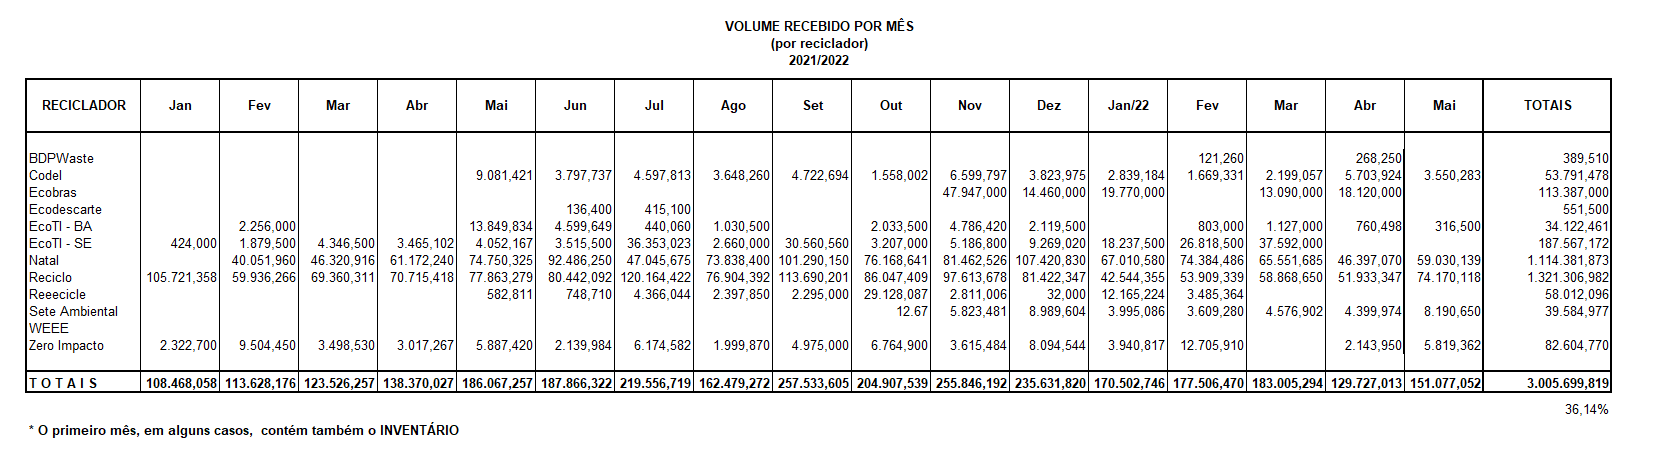
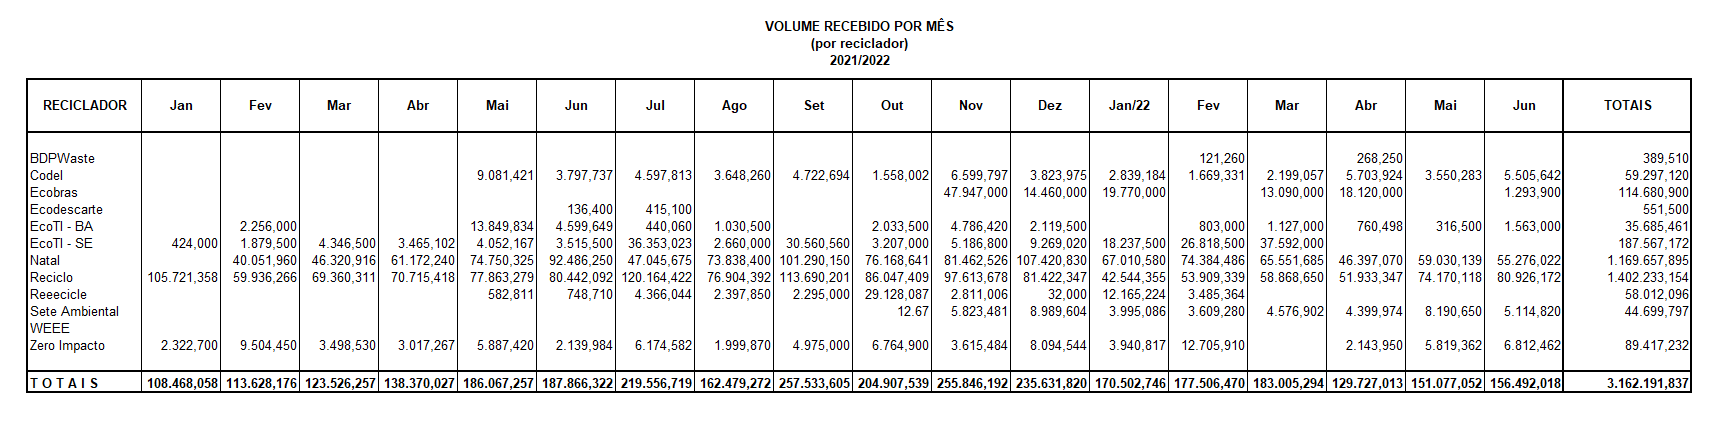
Atualização Jun/22

Changed region(s): [[0.0, 0.0308, 0.9867, 0.955]]

diff --git a/frontend/src/components/DataTable/index.tsx b/frontend/src/components/DataTable/index.tsx
@@ -9,7 +9,7 @@ const DataTable = () => {
                         <th>OT's</th>
                         <th>OS's</th>
                         <th>OD's</th>
-                        <th>Estoque em 31/05/22 (Kg)</th>
+                        <th>Estoque em 30/06/22 (Kg)</th>
                         <th>Peso Reciclado (Kg)</th>
                         
                     </tr>
@@ -23,18 +23,18 @@ const DataTable = () => {
                     </tr>
                     <tr>
                         <td>Codel</td>
-                        <td>86</td>
-                        <td>184</td>
-                        <td>450</td>
-                        <td>12.536,676</td>
-                        <td>39.233,374</td>
+                        <td>105</td>
+                        <td>215</td>
+                        <td>481</td>
+                        <td>16.038,102</td>
+                        <td>40.727,639</td>
                     </tr>
                     <tr>
                         <td>Ecobras</td>
                         <td>0</td>
-                        <td>13</td>
+                        <td>15</td>
                         <td>20</td>
-                        <td>88.160,610</td>
+                        <td>108.994,510</td>
                         <td>35.211,400</td>
                     </tr>
                     <tr>
@@ -48,34 +48,34 @@ const DataTable = () => {
                     <tr>
                         <td>EcoTI - BA</td>
                         <td>24</td>
-                        <td>49</td>
-                        <td>39</td>
-                        <td>16.954,135</td>
-                        <td>8.260,090</td>
+                        <td>55</td>
+                        <td>47</td>
+                        <td>17.550,360</td>
+                        <td>8.521,360</td>
                     </tr>
                     <tr>
                         <td>EcoTI - SE</td>
                         <td>14</td>
                         <td>158</td>
                         <td>52</td>
-                        <td>135.928,093</td>
+                        <td>97.936,123</td>
                         <td>25.500,530</td>
                     </tr>
                     <tr>
                         <td>Natal</td>
-                        <td>259</td>
-                        <td>1.929</td>
-                        <td>315</td>
-                        <td>97.589,190</td>
-                        <td>971.406,952</td>
+                        <td>293</td>
+                        <td>2.054</td>
+                        <td>343</td>
+                        <td>76.863,619</td>
+                        <td>1.039.170,760</td>
                     </tr>
                     <tr>
                         <td>Reciclo</td>
-                        <td>567</td>
-                        <td>1.387</td>
-                        <td>982</td>
-                        <td>59.758,842</td>
-                        <td>1.385.298,239</td>
+                        <td>627</td>
+                        <td>1.495</td>
+                        <td>1.044</td>
+                        <td>57.111,082</td>
+                        <td>1.470.307,088</td>
                     </tr>
                     <tr>
                         <td>Reeecicle</td>
@@ -87,10 +87,10 @@ const DataTable = () => {
                     </tr>
                     <tr>
                         <td>Sete Ambiental</td>
-                        <td>843</td>
-                        <td>620</td>
+                        <td>888</td>
+                        <td>642</td>
                         <td>17</td>
-                        <td>35.630,687</td>
+                        <td>39.698,199</td>
                         <td>609,600</td>
                     </tr>
                     <tr>
@@ -104,9 +104,9 @@ const DataTable = () => {
                     <tr>
                         <td>Zero Impacto</td>
                         <td>85</td>
-                        <td>433</td>
-                        <td>32</td>
-                        <td>36.095,259</td>
+                        <td>451</td>
+                        <td>56</td>
+                        <td>58.834,335</td>
                         <td>29.497,159</td>
                     </tr>
                     <tr>
@@ -119,11 +119,11 @@ const DataTable = () => {
                     </tr>
                     <tr>
                         <th>T O T A I S</th>
-                        <th>1.964</th>
-                        <th>4.997</th>
-                        <th>1.979</th>
-                        <th>528.557,956</th>
-                        <th>2.495.201,544</th>
+                        <th>2.122</th>
+                        <th>5.309</th>
+                        <th>2.132</th>
+                        <th>508.781,067</th>
+                        <th>2.649.729,736</th>
                     </tr>
                 </thead>
                 <tbody>

diff --git a/frontend/src/components/BarRecbMensal/index.tsx b/frontend/src/components/BarRecbMensal/index.tsx
@@ -16,12 +16,12 @@ const BarRecbMensal = () => {
     
     const mockData = {
         labels: {
-            categories: ['Jan', 'Fev', 'Mar', 'Abr', 'Mai', 'Jun', 'Jul', 'Ago', 'Set', 'Out', 'Nov', 'Dez', 'Jan/22', 'Fev', 'Mar', 'Abr', 'Mai']
+            categories: ['Jan', 'Fev', 'Mar', 'Abr', 'Mai', 'Jun', 'Jul', 'Ago', 'Set', 'Out', 'Nov', 'Dez', 'Jan/22', 'Fev', 'Mar', 'Abr', 'Mai', 'Jun']
         },
         series: [
             {
                 name: "Kg Recebidos",
-                data: [108468, 113628,	123526, 138370, 186067, 187866, 219556, 162479, 257534, 204908, 255846, 235632, 170503, 177506, 183005, 129727, 151077]                  
+                data: [108468, 113628,	123526, 138370, 186067, 187866, 219556, 162479, 257534, 204908, 255846, 235632, 170503, 177506, 183005, 129727, 151077, 156492]                  
             }
         ]
     };

diff --git a/frontend/src/components/BarReciclMensal/index.tsx b/frontend/src/components/BarReciclMensal/index.tsx
@@ -16,12 +16,12 @@ const BarReciclMensal = () => {
     
     const mockData = {
         labels: {
-            categories: ['Jan', 'Fev', 'Mar', 'Abr', 'Mai', 'Jun', 'Jul', 'Ago', 'Set', 'Out', 'Nov', 'Dez', 'Jan/22', 'Fev', 'Mar', 'Abr', 'Mai']
+            categories: ['Jan', 'Fev', 'Mar', 'Abr', 'Mai', 'Jun', 'Jul', 'Ago', 'Set', 'Out', 'Nov', 'Dez', 'Jan/22', 'Fev', 'Mar', 'Abr', 'Mai', 'Jun']
         },
         series: [
             {
                 name: "Kg Reciclados",
-                data: [26339, 90712, 93643, 142116, 166545, 219788, 189244, 197028, 209382, 176002, 176982, 162728, 128780, 136990, 181336, 84713, 112874]                  
+                data: [26339, 90712, 93643, 142116, 166545, 219788, 189244, 197028, 209382, 176002, 176982, 162728, 128780, 136990, 181336, 84713, 112874, 154528]                  
             }
         ]
     };

diff --git a/frontend/src/components/BarChart/index.tsx b/frontend/src/components/BarChart/index.tsx
@@ -17,7 +17,7 @@ const BarChart = () => {
         series: [
             {
                 name: "Ton Reciclados",
-                data: [0, 39.233, 35.211, 0, 8.260, 25.501, 971.407, 1385.298, 0.184, 0.610, 0, 29.497]                  
+                data: [0, 40.728, 35.211, 0, 8.521, 25.501, 1039.171, 1470.307, 0.184, 0.610, 0, 29.497]                  
             }
         ]
     };

diff --git a/frontend/src/components/BarOSs/index.tsx b/frontend/src/components/BarOSs/index.tsx
@@ -22,7 +22,7 @@ const BarOSs = () => {
         series: [
             {
                 name: "OS's Abertas",
-                data: [6, 184, 13, 6, 49, 158, 1929, 1387, 206, 620, 12, 433]                  
+                data: [6, 215, 15, 6, 55, 158, 2054, 1495, 206, 642, 12, 451]                  
             }
         ]
     };

diff --git a/frontend/src/components/BarODs/index.tsx b/frontend/src/components/BarODs/index.tsx
@@ -22,7 +22,7 @@ const BarODs = () => {
         series: [
             {
                 name: "OD's Abertas",
-                data: [0, 450, 20, 0, 39, 52, 315, 982, 1, 17, 71, 32]                  
+                data: [0, 481, 20, 0, 47, 52, 343, 1044, 1, 17, 71, 56]                  
             }
         ]
     };

diff --git a/frontend/src/components/BarOTs/index.tsx b/frontend/src/components/BarOTs/index.tsx
@@ -22,7 +22,7 @@ const BarOTs = () => {
         series: [
             {
                 name: "OT's Abertas",
-                data: [0, 86, 0, 37, 24, 14, 259, 567, 49, 843, 0, 86]                  
+                data: [0, 105, 0, 37, 24, 14, 293, 627, 49, 888, 0, 85]                  
             }
         ]
     };
